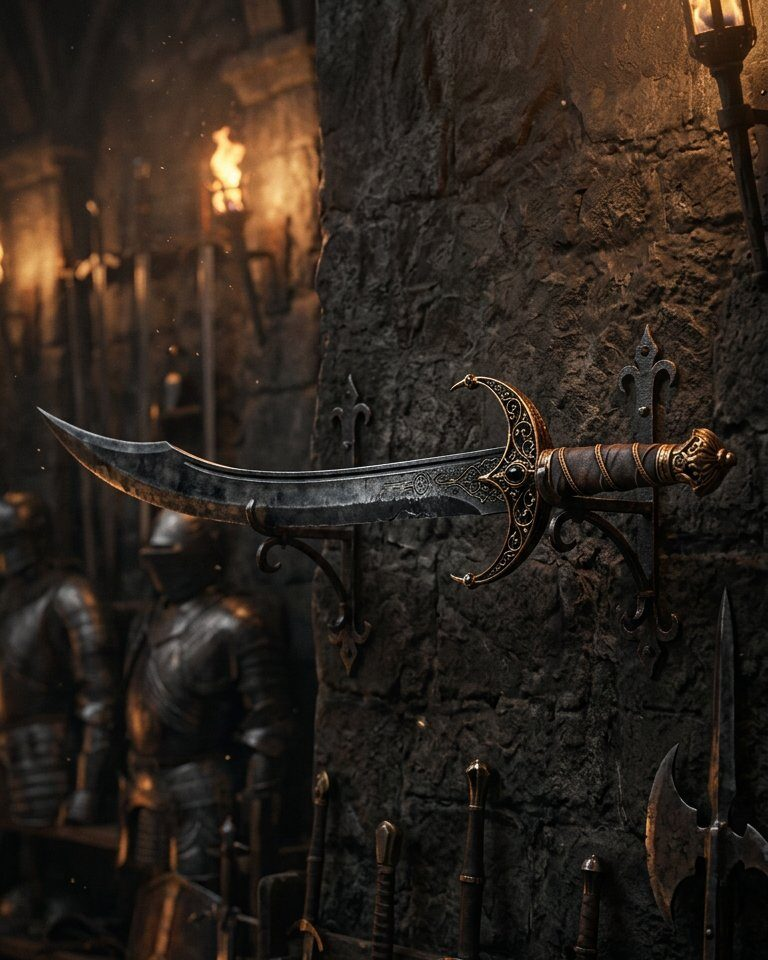
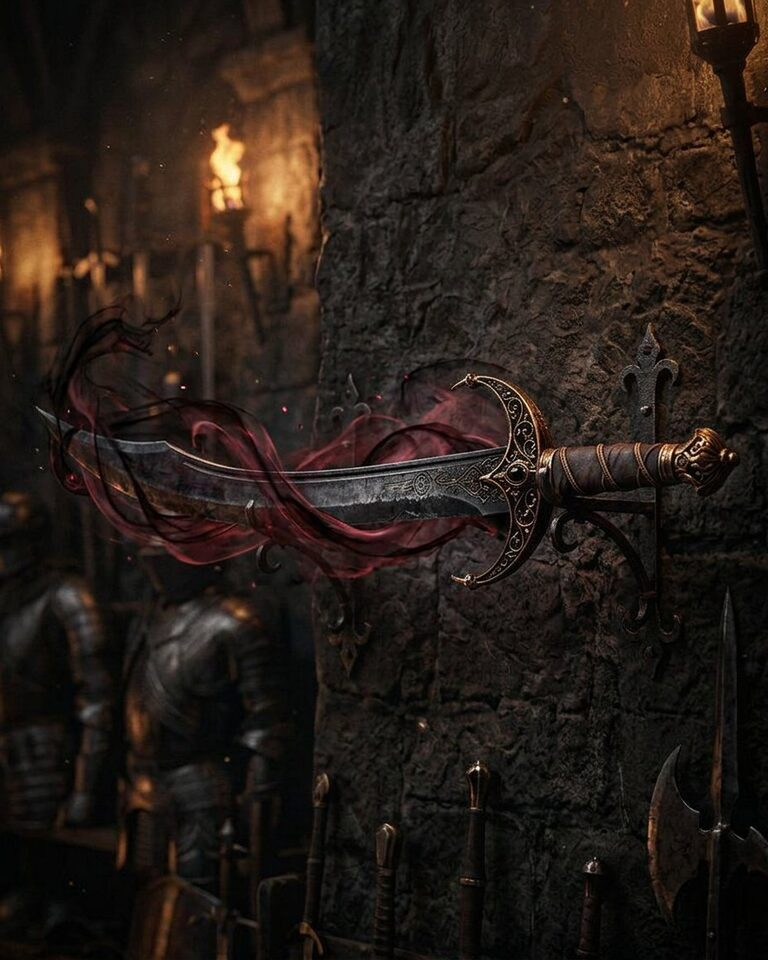
Ajoute une aura au Sabre du croissant noir

diff --git a/src/games/rpgCardArt.js b/src/games/rpgCardArt.js
@@ -63,7 +63,7 @@ const CARD_ART_CACHE_VERSIONS = {
   'souverain-de-la-lune-noire': 'lune-heros-v2',
   'voile-de-la-lune-noire': 'lune-magie-v4',
   'ressac-de-la-lune-noire': 'lune-magie-v4',
-  'sabre-du-croissant-noir': 'lune-armurerie-v2',
+  'sabre-du-croissant-noir': 'lune-armurerie-v3',
   'lance-de-la-lune-givree': 'lune-armurerie-v3',
   // Lettres de Marque : les Sites changent de peinture à chaque Heure.
   // Devenue « La légende du Hollandais volant » : vaisseau fantôme
